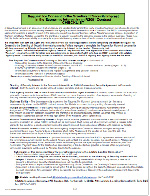
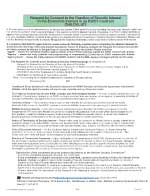
reorder contracts

diff --git a/app/helpers/pdf_page_helper.rb b/app/helpers/pdf_page_helper.rb
@@ -162,12 +162,223 @@ module PdfPageHelper
 
 
 
+		# Assignment of $
+		def page_letter_1(pdf,item_array,place_array,records_array,rec_set)
+			Prawn::Document.generate("point_funding_doc.pdf") do
 
+			pdf.bounding_box([0, 720], :width => 90, :height => 90, :at => [200, 550]) do
+			#     pdf.fill_color "000000"
+			# 	pdf.transparent(1.0, 0.2) do 
+			# 		pdf.image open("app/assets/images/logo_page.png"), :fit => [600, 1000], :at => [0, 160]
+			# 	end
+			#    pdf.fill_color "000000"
+
+				pdf.transparent(1.0, 0.2) do 
+					pdf.image open("app/assets/images/point_logo.png"), :fit => [110, 80], :at => [10, 110]
+				end
+			end
+			# page sign lines
+			# pdf.bounding_box([0, 90],{ :width => 100, :height => 100 }) do
+			# 	pdf.rectangle [110, 190], 180, 2
+			# 	pdf.fill_rectangle [10, 100],0, 0
+			# 	# pdf.fill_color "ff0000"
+			# 	pdf.rectangle [310, 190], 180, 2
+			# 	pdf.fill_rectangle [10, 100],0, 0
+			# 	# pdf.fill_rectangle [240, 510],0, 0
+			# end
+
+			def up_one(step)
+				step = step + 1
+				return step	
+			end
+
+			def number_to_currency(num)
+			  "$#{num.to_s.gsub(/\d(?=(...)+$)/, '\0,')}"
+			end
+
+				current_date = records_array.client_first_name.to_s
+				my_string = item_array[0].to_s
+				groupName = Time.new
+
+				groupName = groupName.localtime.strftime('  %b %d, %Y')
+				say_date = my_string.gsub('#{date}', groupName )
+
+				footer = item_array[24].to_s
+
+				full_name = records_array.client_first_name + " " + records_array.client_last_name
+				head_name = full_name
+
+				full_name_show = head_name.gsub('#{full_name}', records_array.client_first_name )
+
+				comp_address =  records_array.address_street;
+				comp_address_state = records_array.address_city + ", " + records_array.address_state + " " + records_array.address_zip;
+
+				address = comp_address + "\n" + comp_address_state
+				# intro = item_array[9].to_s
+				# intro = intro.sub('#{first_name}', head_name )
+				# agent = item_array[4].to_s
+				# agent = agent.gsub('#{A----}', records_array.agent_num )
+				# agent = agent.gsub('#{agent_name}', full_name )
+
+				intro = item_array[4].to_s 
+				intro = intro.sub('#{nick_name}', records_array.client_first_name )
+
+
+
+
+
+				closing = item_array[9].to_s
+				closing = closing.sub('#{first_name}', records_array.client_first_name )
+
+				para_A = item_array[6].chomp.to_s 
+				para_A = para_A.sub('#{start_date}', records_array.repay_start.strftime('%B, %Y').to_s )
+				para_A = para_A.sub('#{current_date}', records_array.current_date.strftime('%B %d, %Y').to_s )
+				para_A = para_A.sub('#{total_amount}', number_to_currency(records_array.total_amount )  + ".00")
+				para_A = para_A.sub('#{final_date}', records_array.final_date.strftime('%B, %Y').to_s )
+
+				# wash para B
+				para_Book = item_array[9].to_s
+				para_Book = para_Book.sub('#{first_name}', records_array.client_first_name )
+				fin = number_to_currency(records_array.fin_fee)
+
+				agent_num = rec_set[28]
+
+				sign_from = item_array[10].to_s
+				sign_from = sign_from.sub('#{agent_num}', agent_num )
+				sign_from = sign_from.sub('#{full_name}', full_name )
+				tag_height = 14
+				# step = up_one(step) 
+				step = 0
+			def get_page_loc(step, place_array, pdf, var_x, var_y)
+				var_x = place_array[step][0]
+				var_y = place_array[step][1]
+					
+				# pdf.indent 320, 0 do
+				# 	pdf.font "arial", size: 10 
+				# 	pdf.stroke_color '000000'
+				# 	pdf.stroke_bounds
+				# 	pdf.text_box step.to_s + " - : " + place_array[step][0].to_s + " : w, " + place_array[step][1].to_s + " : h, ", {:size => 12, :color => "ff0000" }
+				# 	pdf.line_to [var_x, var_y]
+				# end
+				# pdf.transparent(1.0, 0.2) do 
+				# 	pdf.image open("app/assets/images/point_logo.png"), :fit => [80, 80], :at => [10, 110]
+				# end
+					# pdf.rectangle [var_x, var_y], 100, 200
+				# end
+			end
+			# page layout 
+			# page layout area  : Area 1
+				pdf.bounding_box([ place_array[step][0], place_array[step][1]],{ :width => 530, :height => 100}) do
+					pdf.font "times", size: 13
+					# pdf.text say_date 
+					# pdf.text address
+					pdf.text rec_set[1].strftime('%B %d, %Y').to_s , :inline_format => true #, {:color => "00ff00"}
+					# pdf.text item_array[step]
+					#, {:color => "00ff00"}
+					# get_page_loc(step, place_array, pdf, place_array[step][0], place_array[step][1] )
+		        end
+		        step = up_one(step)
+
+				#  # name : Area 2
+				pdf.bounding_box([ place_array[step][0], place_array[step][1]],{ :width => 530, :height => 40}) do
+					pdf.text item_array[step].chomp, :inline_format => true
+				 	# pdf.text full_name ,:color => "000000", :inline_format => true
+					# get_page_loc(step, place_array, pdf, place_array[step][0], place_array[step][1] )
+				end
+				step = up_one(step)
+
+				# # # # Full name
+				pdf.bounding_box([  place_array[step][0], place_array[step][1] ], :width => 530, :height => 100) do
+					pdf.text full_name_show
+					
+					# pdf.text comp_address_state.chomp, :inline_format => true
+						# pdf.text full_name_show.chomp, :inline_format => true
+				# # # 	get_page_loc(step, place_array, pdf, place_array[step][0], place_array[step][1] )
+				end
+				step = up_one(step)  
+				# 	# # # address : Area 3
+				pdf.bounding_box([ place_array[step][0], place_array[step][1] ], :width => 530, :height => 30) do
+					pdf.text address.chomp, :inline_format => true
+					# # 	# pdf.font "arial", size: 10 
+					# pdf.text address.chomp, :inline_format => true
+					# pdf.text comp_address_state.chomp, :inline_format => true
+					# pdf.text intro, :inline_format => true
+					# # 	# get_page_loc(step, place_array, pdf, place_array[step][0] , place_array[step][1] )
+				end
+				step = up_one(step)			
+				# # # reply : Area 4
+				pdf.bounding_box([ place_array[step][0], place_array[step][1]], :width => 500, :height => 30) do
+					# # 	# pdf.font "arial", size: 10 
+					pdf.text intro.chomp, :inline_format => true
+					# # 	# get_page_loc(step, place_array, pdf, place_array[step][0] , place_array[step][1] )
+				end
+				step = up_one(step)
+				# # # agent : para 01
+				pdf.bounding_box([ place_array[step][0], place_array[step][1]], :width => 530, :height => 60) do
+					pdf.text item_array[step].chomp, :inline_format => true
+				# 	# # 	# get_page_loc(step, place_array, pdf, place_array[step][0] , place_array[step][1] )
+				end
+				step = up_one(step)
+				# # # # para LIST
+				pdf.bounding_box([ place_array[step][0], place_array[step][1]], :width => 530, :height => 60) do
+					pdf.text item_array[step].chomp, :inline_format => true, size: 14 
+				# 	# # 	# get_page_loc(step, place_array, pdf, place_array[step][0] , place_array[step][1] )
+				end
+				step = up_one(step)
+				# # # #para 2
+				pdf.bounding_box([ place_array[step][0], place_array[step][1] ], :width => 530, :height => 80) do
+					pdf.text item_array[step].chomp, :inline_format => true
+				# # # 	# get_page_loc(step, place_array, pdf, place_array[step][0] , place_array[step][1] )
+				end
+				step = up_one(step) 
+				# # # #para CLOSE ADDRESS
+				pdf.bounding_box([place_array[step][0], place_array[step][1]], :width => 500, :height => 80) do
+					pdf.text item_array[step].chomp, :inline_format => true
+				# # 	pdf.text item_array[step]
+					# pdf.text para_Book.chomp, :inline_format => true
+				# # # 	# get_page_loc(step, place_array, pdf, place_array[step][0] , place_array[step][1] )
+				end
+				step = up_one(step)
+				# # # # closing 
+				pdf.bounding_box([place_array[step][0], place_array[step][1]], :width => 530, :height => 40) do
+				# # 	pdf.text closing
+				pdf.text closing.chomp, :inline_format => true
+					# pdf.text sign_from, :inline_format => true
+				# # # 	# get_page_loc(step, place_array, pdf, place_array[step][0] , place_array[step][1] )
+				end
+				step = up_one(step)
+				# # # # footer
+				pdf.bounding_box([place_array[step][0], place_array[step][1]], :width => 530, :height => 100) do
+				# 	pdf.text item_array[step].chomp, :inline_format => true #, :size => 10
+				 	pdf.text item_array[step].to_s
+				# # # 	# get_page_loc(step, place_array, pdf, place_array[step][0] , place_array[step][1] )
+				end
+				# step = up_one(step)
+				# # #sign to
+				# # pdf.bounding_box([place_array[step][0], place_array[step][1]], :width => 530, :height => 30) do
+				# # 	pdf.text item_array[step].to_s
+				# # # 	# get_page_loc(step, place_array, pdf, place_array[step][0] , place_array[step][1] )
+				# # end
+				# # step = up_one(step)
+				# # #spacer 
+				# # pdf.bounding_box([place_array[step][0], place_array[step][1]], :width => 530, :height => 30) do
+				# # 	pdf.text item_array[step].to_s
+				# # # 	# get_page_loc(step, place_array, pdf, place_array[step][0] , place_array[step][1] )
+				# # end
+
+				# pdf.bounding_box([0, 0], :width => 560, :height => 40) do
+				# 	# pdf.font "arial"
+				# 	pdf.text footer.chomp.to_s, :inline_format => true, :size => 8, :align => :center
+				# 	# get_page_loc(step, place_array, pdf, place_array[step][0] , place_array[step][1] )
+				# end
+						
+			end
+		end
 
 
 
 		# Assignment of $
-		def page_letter_1(pdf,item_array,place_array,records_array,rec_set)
+		def page_letter_1B(pdf,item_array,place_array,records_array,rec_set)
 		 Prawn::Document.generate("point_funding_doc.pdf") do
 
 			pdf.bounding_box([-30, 720], :width => 100, :height => 100, :at => [200, 550]) do
@@ -519,7 +730,7 @@ module PdfPageHelper
 			pdf.bounding_box([0, 720], :width => 100, :height => 100, :at => [100, 440]) do
 			    pdf.fill_color "ff0000"
 			  	pdf.transparent(1.0, 0.2) do 
-					pdf.image open("app/assets/images/point_logo.png"), :fit => [80, 80], :at => [10, 110]
+					# pdf.image open("app/assets/images/point_logo.png"), :fit => [80, 80], :at => [10, 110]
 					end
 						# pdf.image open("app/assets/images/point_logo.png")
 				        	pdf.fill_color "000000"
@@ -594,7 +805,7 @@ module PdfPageHelper
 							sign_from = sign_from.sub('#{full_name}', full_name )
 							tag_height = 14
 							# step = up_one(step) 
-							step = 0
+							step = 12
 
 							start_date = item_array[14].to_s
 							# start_date = start_date.sub('#{start_date}', rec_set[1].to_date.strftime('%b %d, %Y').to_s )
@@ -721,7 +932,7 @@ module PdfPageHelper
 							step = up_one(step)
 							pdf.bounding_box([30, 650],{ :width => 530, :height => 60}) do
 								pdf.font "times", size: 12
-								pdf.text say_date 
+								# pdf.text say_date 
 							end	
 							#########################################################################################
 
@@ -730,8 +941,8 @@ module PdfPageHelper
 								pdf.font "times", size: 12
 								# pdf.text say_date 
 								# pdf.text address
-								pdf.text rec_set[0], :inline_format => true #, {:color => "00ff00"}
-								pdf.text item_array[step]
+								# pdf.text rec_set[0], :inline_format => true #, {:color => "00ff00"}
+								# pdf.text item_array[step]
 								#, {:color => "00ff00"}
 								# get_page_loc(step, place_array, pdf, place_array[step][0], place_array[step][1] )
 					        end
@@ -741,80 +952,80 @@ module PdfPageHelper
 						  #     	pdf.rectangle [204, 720], 120, 1
 								# pdf.fill_rectangle [10, 100],0, 0
 
-								pdf.rectangle [470, 12], 60, 1
-								pdf.fill_rectangle [10, 100],0, 0
+								# pdf.rectangle [470, 12], 60, 1
+								# pdf.fill_rectangle [10, 100],0, 0
 
 								pdf.fill_color "000000"
 						    end
 
-							step = up_one(step)
+							# step = up_one(step)
 							#  # name : Area 2
 							pdf.bounding_box([ place_array[step][0], place_array[step][1]],{ :width => 530, :height => 40}) do
-							 	pdf.text full_name ,:color => "000000", :inline_format => true
+							 	# pdf.text full_name ,:color => "000000", :inline_format => true
 								# get_page_loc(step, place_array, pdf, place_array[step][0], place_array[step][1] )
 							end
-							step = up_one(step)
+							# step = up_one(step)
 
 							# # # Full name
 							pdf.bounding_box([  place_array[step][0], place_array[step][1] ], :width => 530, :height => 24) do
 								# pdf.text full_name_show
-								pdf.text comp_address + " \n" + comp_address_state
+								# pdf.text comp_address + " \n" + comp_address_state
 							# # # 	get_page_loc(step, place_array, pdf, place_array[step][0], place_array[step][1] )
 							end
-							step = up_one(step)  
+							# step = up_one(step)  
 								# # # address : Area 3
 								pdf.bounding_box([ place_array[step][0], place_array[step][1] ], :width => 530, :height => 30) do
 								# # 	# pdf.font "arial", size: 10 
-								pdf.text intro, :inline_format => true
+								# pdf.text intro, :inline_format => true
 								# # 	# get_page_loc(step, place_array, pdf, place_array[step][0] , place_array[step][1] )
 							end
-							step = up_one(step)			
+							# step = up_one(step)			
 							# # # reply : Area 4
 							pdf.bounding_box([ place_array[step][0], place_array[step][1]], :width => 500, :height => 30) do
 								# # 	# pdf.font "arial", size: 10 
-								pdf.text item_array[step], :inline_format => true
+								# pdf.text item_array[step], :inline_format => true
 								# # 	# get_page_loc(step, place_array, pdf, place_array[step][0] , place_array[step][1] )
 							end
-							step = up_one(step)
+							# step = up_one(step)
 							# # agent : para 01
 							pdf.bounding_box([ place_array[step][0], place_array[step][1]], :width => 530, :height => 60) do
-								pdf.text item_array[step].chomp, :inline_format => true
+								# pdf.text item_array[step].chomp, :inline_format => true
 								# # 	# get_page_loc(step, place_array, pdf, place_array[step][0] , place_array[step][1] )
 							end
-							step = up_one(step)
+							# step = up_one(step)
 							# # # para LIST
 							pdf.bounding_box([ place_array[step][0], place_array[step][1]], :width => 530, :height => 60) do
-								pdf.text item_array[step].chomp, :inline_format => true
+								# pdf.text item_array[step].chomp, :inline_format => true
 								# # 	# get_page_loc(step, place_array, pdf, place_array[step][0] , place_array[step][1] )
 							end
-							step = up_one(step)
+							# step = up_one(step)
 							# # #para 2
 							pdf.bounding_box([ place_array[step][0], place_array[step][1] ], :width => 530, :height => 80) do
-								pdf.text item_array[step].chomp, :inline_format => true
+								# pdf.text item_array[step].chomp, :inline_format => true
 							# # 	# get_page_loc(step, place_array, pdf, place_array[step][0] , place_array[step][1] )
 							end
-							step = up_one(step) 
+							# step = up_one(step) 
 							# # #para CLOSE ADDRESS
 							pdf.bounding_box([place_array[step][0], place_array[step][1]], :width => 500, :height => 80) do
 							# 	pdf.text item_array[step]
-								pdf.text para_Book.chomp, :inline_format => true
+								# pdf.text para_Book.chomp, :inline_format => true
 							# # 	# get_page_loc(step, place_array, pdf, place_array[step][0] , place_array[step][1] )
 							end
-							step = up_one(step)
+							# step = up_one(step)
 							# # # closing 
 							pdf.bounding_box([place_array[step][0], place_array[step][1]], :width => 530, :height => 40) do
 							# 	pdf.text closing
-								pdf.text sign_from, :inline_format => true
+								# pdf.text sign_from, :inline_format => true
 							# # 	# get_page_loc(step, place_array, pdf, place_array[step][0] , place_array[step][1] )
 							end
-							step = up_one(step)
+							# step = up_one(step)
 							# # # footer
 							pdf.bounding_box([place_array[step][0], place_array[step][1]], :width => 530, :height => 30) do
-								pdf.text item_array[step].chomp, :inline_format => true #, :size => 10
+								# pdf.text item_array[step].chomp, :inline_format => true #, :size => 10
 							# # 	pdf.text item_array[step].to_s
 							# # 	# get_page_loc(step, place_array, pdf, place_array[step][0] , place_array[step][1] )
 							end
-							step = up_one(step)
+							# step = up_one(step)
 							# #sign to
 							# pdf.bounding_box([place_array[step][0], place_array[step][1]], :width => 530, :height => 30) do
 							# 	pdf.text item_array[step].to_s
@@ -829,14 +1040,14 @@ module PdfPageHelper
 
 							pdf.bounding_box([0, 0], :width => 560, :height => 40) do
 								# pdf.font "arial"
-								pdf.text footer.chomp.to_s, :inline_format => true, :size => 8, :align => :center
+								# pdf.text footer.chomp.to_s, :inline_format => true, :size => 8, :align => :center
 								# get_page_loc(step, place_array, pdf, place_array[step][0] , place_array[step][1] )
 							end
 						
 						#page 2 prom note
-						pdf.start_new_page
+						# pdf.start_new_page
 						##########################################################################################
-							step = up_one(step)
+							# step = up_one(step)
 							#  title
 							pdf.bounding_box([0, 90],{ :width => 100, :height => 100 }) do
 						      	pdf.fill_color "000000"
@@ -2787,7 +2998,7 @@ module PdfPageHelper
 			
     		# page layout 
 			pdf.bounding_box([ place_array[step][0], place_array[step][1]],{ :width => 400, :height => 16}) do
-				pdf.font "times", size: 12 
+				pdf.font "times", size: 13 
 				pdf.text say_date, {:color => "000000"}
 				# get_page_loc(step, place_array, pdf, place_array[step][0], place_array[step][1] )
 	        end
